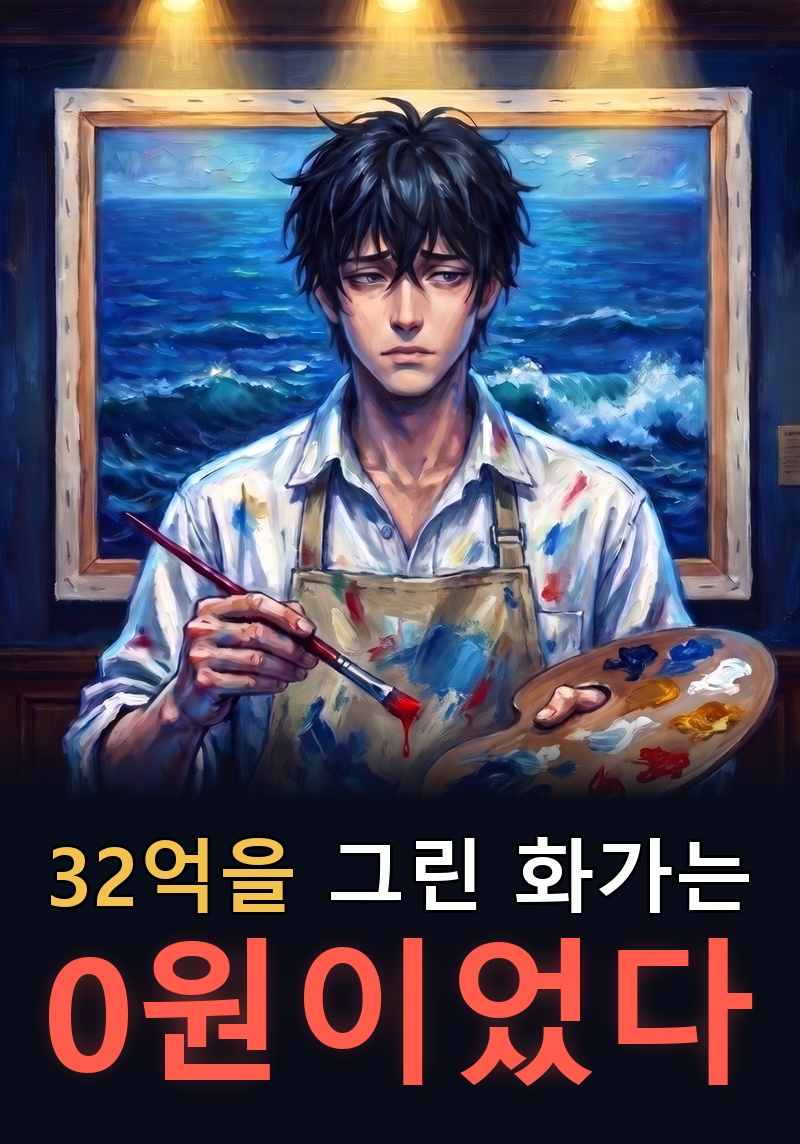
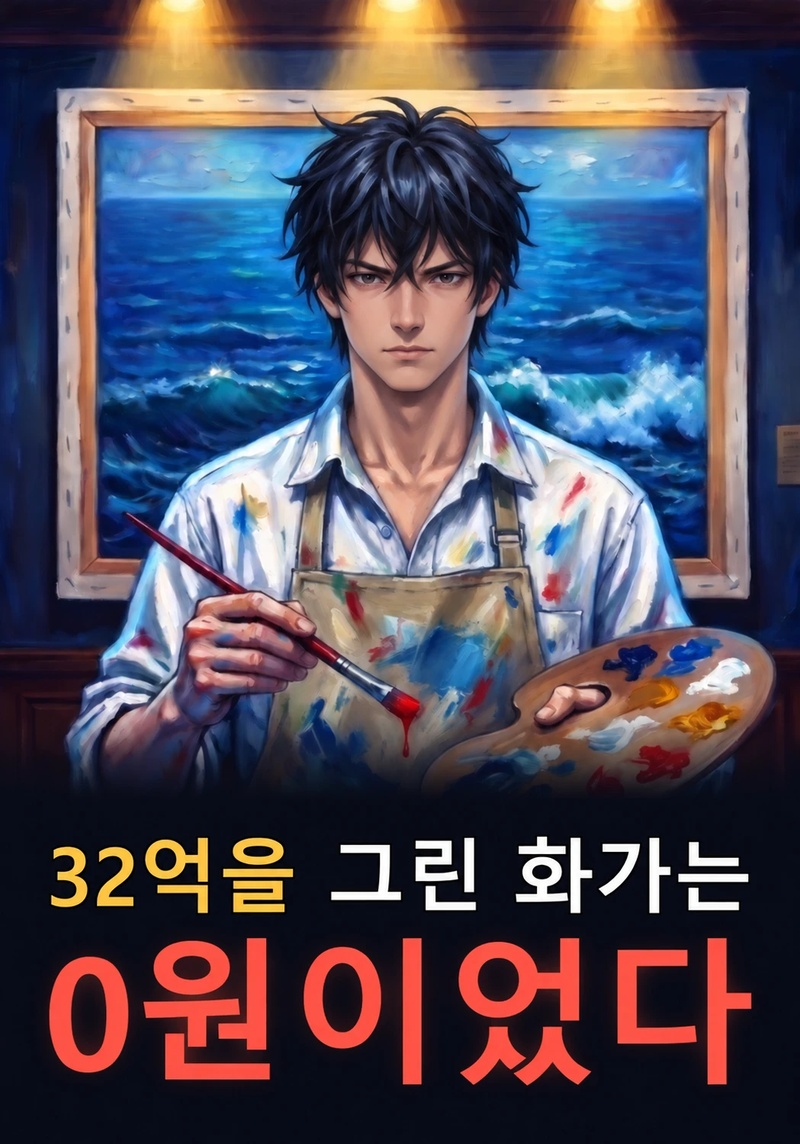
「32억을 그린 화가는 0원이었다」 문피아 연재 시작 준비
11-16 연재 시작에 맞춰 등록·홍보 자료를 정리함.
- 최종 표지를 루카가 만든 정면 눈빛 버전으로 교체(원본도 함께 보관)
- 작품소개: 부장르 드라마로 확정
- 홍보문구: 작품 링크·날짜 채움, 신작 연재 안내 공지와 탱커 작가공지 문구 갱신
- 회차제목.md: 1~10화 소제목 초안

diff --git a/docs/문피아/회귀화가/홍보문구.md b/docs/문피아/회귀화가/홍보문구.md
@@ -1,6 +1,6 @@
 # 홍보 문구 (초안, 본인 채널용)
 
-제목 확정(11-14): 「32억을 그린 화가는 0원이었다」. 연재일이 정해지면 [링크], [날짜]를 채운다. 지인·커뮤니티에 부탁하는 홍보는 하지 않는다.
+제목 확정(11-14): 「32억을 그린 화가는 0원이었다」. 연재일이 정해지면 https://nlink.munpia.com/link/munpia/novel/623089, 11월 16일를 채운다. 지인·커뮤니티에 부탁하는 홍보는 하지 않는다.
 
 ## 문피아 작품 페이지 [홍보글 쓰기]
 똑같은 그림도 그가 그리면 32억, 내가 그리면 그냥 칠한 천이었습니다.
@@ -26,10 +26,23 @@
 새 소설은 남의 이름으로 그림을 그리다 죽은 화가 이야기예요.
 돌아와 보니 모든 그림의 값이 보여요. 여러분이라면 제일 먼저 어떤 그림을 보실 건가요?
 
-(마지막 문장이 답글 장치. 연재 시작 후 [링크] 추가. 40화·66회는 게시 전에 그때 숫자로 확인.)
+(마지막 문장이 답글 장치. 연재 시작 후 https://nlink.munpia.com/link/munpia/novel/623089 추가. 40화·66회는 게시 전에 그때 숫자로 확인.)
+
+## 화가 작품 작가공지: 연재 안내 (11-16 올림)
+**소제목:** 연재 안내
+
+「32억을 그린 화가는 0원이었다」를 찾아 주셔서 감사합니다.
+
+· 매일 저녁 6시에 한 화씩 올라갑니다.
+· 1부 50화를 모두 써 두고 시작했습니다. 연재 중단 없습니다.
+· 이전 작품 「미끼였던 탱커가 회귀함」(40화 완결)도 함께 읽어 주시면 감사하겠습니다.
+
+버려진 자리에서 자기 이름을 되찾는 이야기, 끝까지 함께해 주세요.
+
+metaluca 드림
 
 ## 탱커 작가공지: 신작 안내 (이모지 금지, 문피아 오류 남)
-**제목:** 신작 「32억을 그린 화가는 0원이었다」 연재를 시작합니다
+**제목:** 신작 「32억을 그린 화가는 0원이었다」 연재를 시작했습니다
 
 「미끼였던 탱커가 회귀함」을 끝까지 읽어 주신 분들께 먼저 감사드립니다.
 완결을 찍은 뒤에도 찾아와 주신 덕분에, 다음 이야기를 꺼낼 용기가 생겼습니다.
@@ -45,9 +58,9 @@
 탱커가 미끼 자리에서 버텼다면, 이번 주인공은 남의 이름 밑에서 버팁니다.
 버려진 자리에서 이름을 되찾는 이야기, 이번에도 끝까지 갑니다.
 
-· 1부 50화를 모두 써 두고 시작합니다. 연재 중단 없습니다.
-· [날짜]부터 매일 저녁 6시
-· 바로가기: [링크]
+· 오늘 1화가 올라갔습니다. 매일 저녁 6시에 이어집니다.
+· 1부 50화를 모두 써 두고 시작했습니다. 연재 중단 없습니다.
+· 바로가기: https://nlink.munpia.com/link/munpia/novel/623089
 
 탱커를 아껴 주신 마음 그대로, 새 이야기에서도 뵙고 싶습니다.
 고맙습니다.
@@ -56,4 +69,4 @@ metaluca 드림
 
 ## 연재 시작 알림 (인스타 본계정, 짧게)
 화가였던 사람이 쓰는 화가 소설을 시작해요.
-「32억을 그린 화가는 0원이었다」, [날짜]부터 매일 저녁 6시, 문피아에서요.
+「32억을 그린 화가는 0원이었다」, 11월 16일부터 매일 저녁 6시, 문피아에서요.

diff --git a/docs/문피아/회귀화가/회차제목.md b/docs/문피아/회귀화가/회차제목.md
@@ -1,0 +1,14 @@
+# 회차 제목 (문피아 업로드용 초안)
+
+| 회차 | 제목 | 내용 한 줄 |
+|---|---|---|
+| 1화 | 넌 이름이 없잖아 | 남의 이름으로 그리다 죽은 재현, 계약 전날로 회귀. 서명하자 0원 → 41억 |
+| 2화 | 35만 원짜리 첫 그림 | 계약 거절, 하린의 「막차」를 잔고를 털어 삼 |
+| 3화 | 지하의 비밀번호 | 1107을 눌러 들어간 지하에서 정우석을 봄 |
+| 4화 | 도장 찍기 직전 | 하린이 도장 앞에서 멈춤, 민도하는 CCTV로 다 알고 있었음 |
+| 5화 | 열두 번째 캔버스 | 최 사장 외상 정리, 황학동에서 2,000만 원짜리를 찾아냄 |
+| 6화 | 금란다방의 포구 | 모민환 「포구」, 미리 기다리던 꾼 |
+| 7화 | 붓질인가, 값인가 | 청운표구사 박 사장의 진짜·가짜 시험 |
+| 8화 | 숫자 하나에 숨 한 모금 | 박 사장과 동업, 창고에서 쓰러짐, 놓친 3억 |
+| 9화 | 빈 이젤 | 강태민 개인전 초대장, 지하에 새 사람이 앉음 |
+| 10화 | 빼앗긴 골목 | 민도하가 산 「골목」 위에 뜬 다른 이름 |

diff --git a/docs/문피아/회귀화가/작품소개.md b/docs/문피아/회귀화가/작품소개.md
@@ -2,7 +2,7 @@
 
 **제목:** 32억을 그린 화가는 0원이었다 (11-14 루카 확정, 등록 후 변경 불가)
 **표지:** docs/문피아/32억화가_표지_최종.jpg (11-15 확정, 800×1144, 힉스필드 nano_banana_2 그림 + 맑은 고딕 굵게 제목 띠, 후보는 회귀화가/표지/ a1~a6)
-**장르:** 현대판타지, 일반소설 (부장르는 등록 화면 선택지 보고 확정)
+**장르:** 현대판타지 / 부장르 드라마 (11-16 추천)
 **태그:** #화가 #회귀 #현대판타지 #복수 #예술가
 
 ## 소개글 (800자 제한 안)
